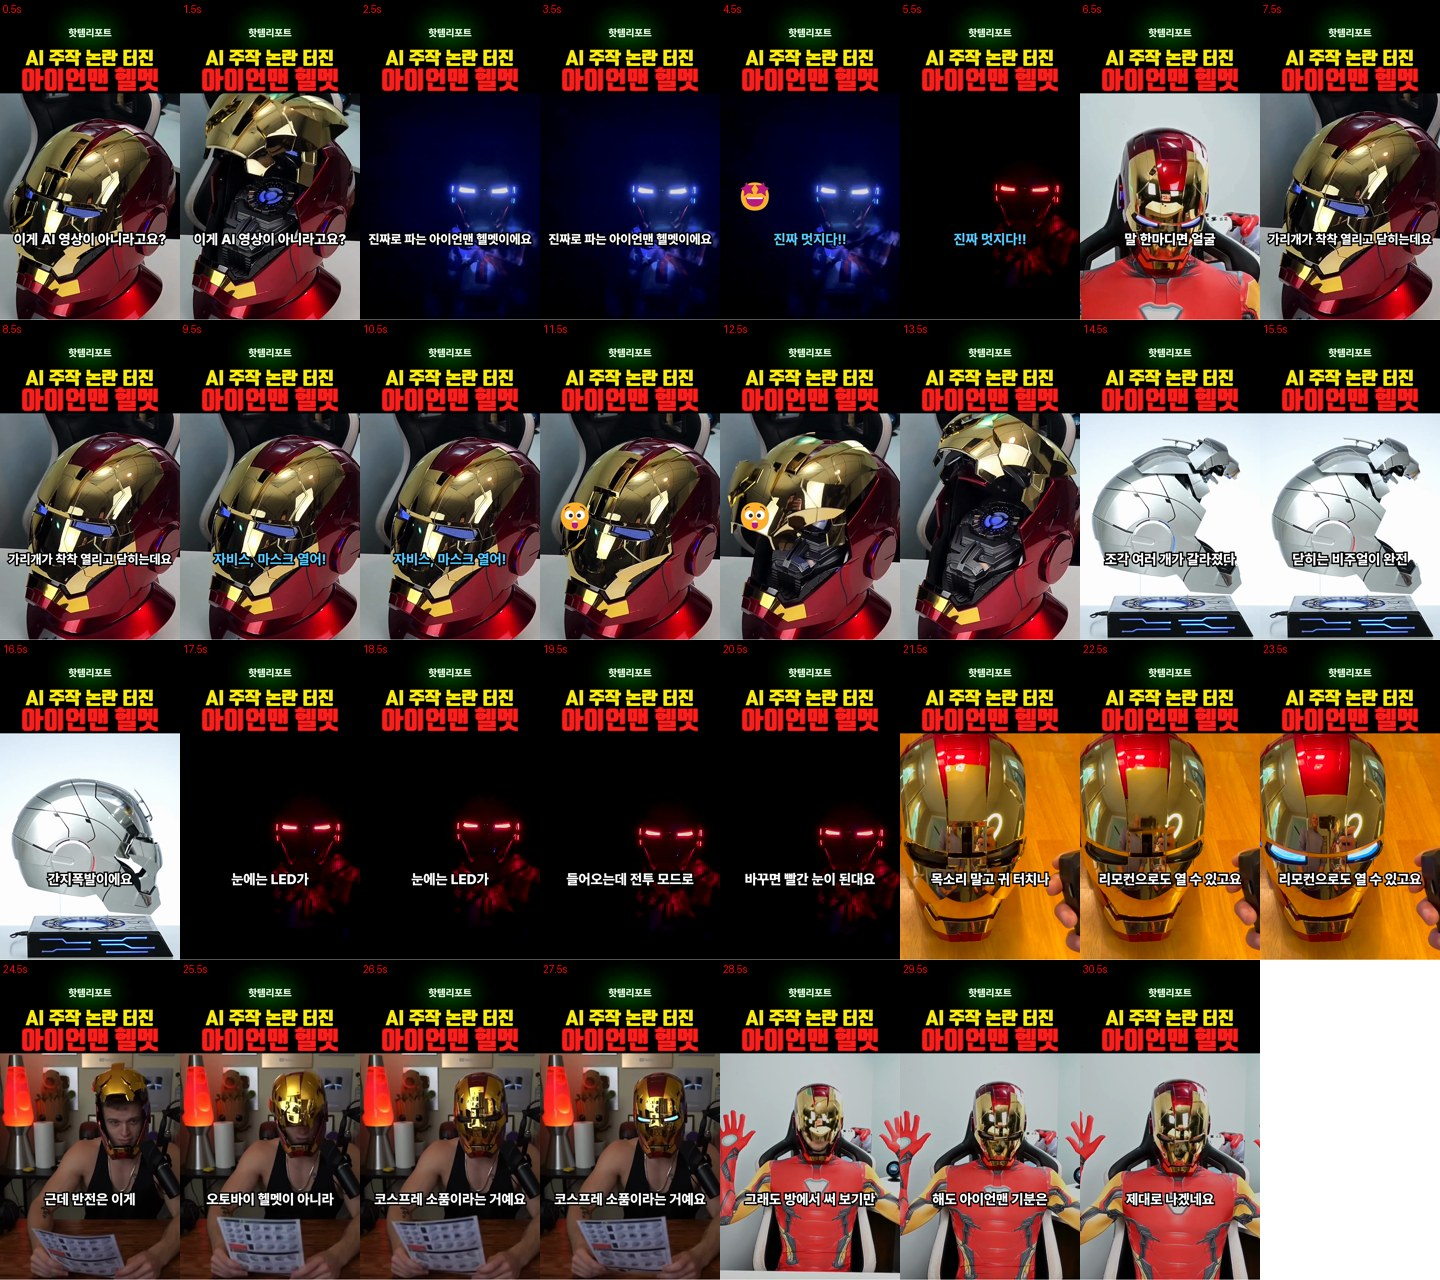
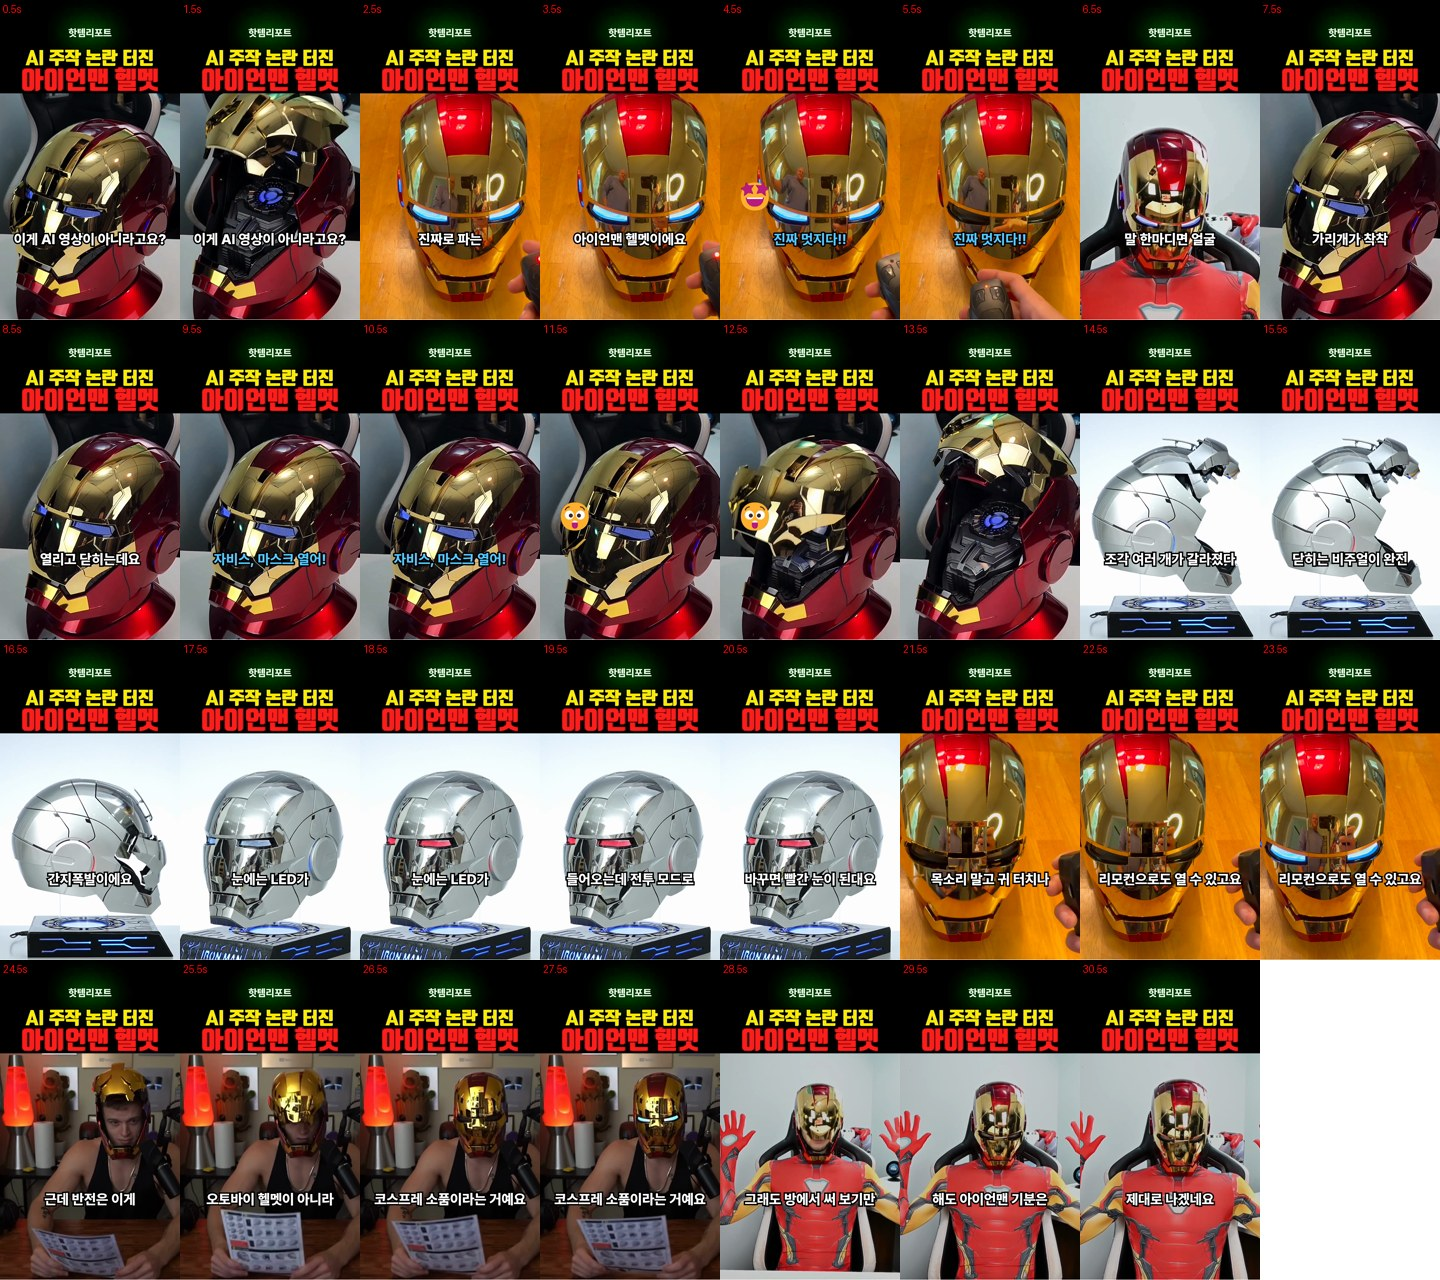
핫템리포트 OE11 2판 재렌더(TTS 재사용): 어두운 LED 화면 2컷 → 밝은 배경(8ys8 책상 43초 파란 눈·nqy 흰 배경 31초 파→빨 눈, 원음 리액션은 audio_src/audio_ss 로 유지)·자막 조각 ≤10자(쉼표로 경계)·원음 −16.4/−17.3 LUFS (관제 097)
Claude-Session: https://claude.ai/code/session_01BTrZqzTa3Berb8VK4gs4B4

diff --git a/tools/calcopy/hottem_audio.py b/tools/calcopy/hottem_audio.py
@@ -100,9 +100,11 @@ def cut_plan_from(timeline: dict, M: dict) -> tuple[list, dict, list]:
         sh = M["shots"][k]
         nfr = int(round(b * 30)) - int(round(a * 30))
         vid = f"s{k}"
-        paths[vid] = str(base / sh["src"])
+        # audio_src/audio_ss = 화면과 다른 소스의 소리(10-16: 어두운 LED 화면을 밝은 화면으로 바꾸되 원음 리액션은 그대로 두려고)
+        paths[vid] = str(base / (sh.get("audio_src") or sh["src"]))
         mute = sh.get("kind") == "짤" or sh.get("mute")
-        clips.append({"video_id": vid if not mute else "__mute__", "start": float(sh.get("ss", 0)), "c_src": (b - a), "play_out": (b - a), "cfr": nfr})
+        start = float(sh["audio_ss"]) if sh.get("audio_ss") is not None else float(sh.get("ss", 0))
+        clips.append({"video_id": vid if not mute else "__mute__", "start": start, "c_src": (b - a), "play_out": (b - a), "cfr": nfr})
         tot += nfr
     return [{"idx": 0, "clips": clips}], paths, [(0, tot)]
 

diff --git a/channel/hottemreport/칼카피_OE11/대조/차이표.md b/channel/hottemreport/칼카피_OE11/대조/차이표.md
@@ -1,7 +1,7 @@
 # 칼카피 대조 차이표
 
 - 원본: `C:/숏템_칼카피/hottemreport/mp4/OE-11wb7vdY.mp4` (34.033초)
-- 우리: `C:\숏템_칼카피\hottemreport\칼카피_OE11\make\final.mp4` (31.767초)
+- 우리: `C:\숏템_칼카피\hottemreport\칼카피_OE11\make\final.mp4` (31.8초)
 - 자: bench_one.measure(layout_mode=`single`) — 두 영상에 같은 함수
 - 규칙 자료(뜯기.json): 원본 `None` · 우리 `None`
 - **판정(① 픽셀 수준만): 미달** (기준 27개 중 안 17개)
@@ -17,37 +17,37 @@
 | 틀 | 배경 RGB | [0, 0, 0] | [0, 1, 0] | 1 | 배경 RGB 채널 최대차 ≤ 8 | 안 | `layout.measure_video` |
 | 틀 | 자막 자리 | inside | inside | 같음 | 자막 자리(위/아래/안) 같음 | 안 | `layout._caption` |
 | 틀 | 자막 잉크 극성 | bright | bright | 같음 | 자막 잉크 극성 같음 | 안 | `layout._caption` |
-| 틀 | 자막 띠 [y0,y1) | [1378, 1483] | [1392, 1473] | 14 | 자막 띠 y0,y1 차 ≤ 4px (틀 좌표 기준 §6-1) | **밖** | `layout._caption` |
+| 틀 | 자막 띠 [y0,y1) | [1378, 1483] | [1394, 1473] | 16 | 자막 띠 y0,y1 차 ≤ 4px (틀 좌표 기준 §6-1) | **밖** | `layout._caption` |
 | 틀 | 창 위 고정 띠 [[y0,y1)…] | [[132, 258], [297, 396], [408, 548]] | [[123, 268], [298, 396], [400, 550]] | 다름 | 참고(설계에 기준 수치 없음) | 참고 | `layout.measure_video(above_bands)` |
 | 틀 | 띠 색 | - | - | - | 참고(설계에 기준 수치 없음) | 참고(failed:원본: bench에 띠 색을 재는 자가 없음(layout은 창 밖 배경 RGB만 잰다) / 우리: bench에 띠 색을 재는 자가 없음(layout은 창 밖 배경 RGB만 잰다)) | `-` |
 | 틀 | 창 위 고정 글자 띠 개수 | 3 | 3 | 같음 | 창 위 고정 글자 띠 개수 같음 | 안 | `bands.measure_video` |
 | 틀 | 제목 블록 아래 끝~창 위 끝(px) | 165 | 165 | 0 | 제목 블록 아래 끝~창 위 끝 간격 차 ≤ 8px | 안 | `layout.window − bands.ink_bottom` |
 | 틀 | 창 위 띠1 [132,258) 글자 높이(px) | 54 | 55 | 1.0 (1.9%) | 띠 글자 높이 차 ≤ 6% | 안 | `bands.band_style(captions.glyph_style)` |
 | 틀 | 창 위 띠1 [132,258) 획 두께(px) | 5 | 7 | 2 | 띠 획 두께 차 ≤ 1px | **밖** | `bands.band_style(captions.glyph_style)` |
-| 틀 | 창 위 띠1 [132,258) 잉크 비율 | 0.01374 | 0.02063 | 0.007 (50.1%) | 띠 잉크 비율 차 ≤ 20% | **밖** | `bands.band_style(layout.ink_mask)` |
+| 틀 | 창 위 띠1 [132,258) 잉크 비율 | 0.01374 | 0.02062 | 0.007 (50.1%) | 띠 잉크 비율 차 ≤ 20% | **밖** | `bands.band_style(layout.ink_mask)` |
 | 틀 | 창 위 띠2 [297,396) 글자 높이(px) | 99 | 98 | -1.0 (1.0%) | 띠 글자 높이 차 ≤ 6% | 안 | `bands.band_style(captions.glyph_style)` |
 | 틀 | 창 위 띠2 [297,396) 획 두께(px) | 6 | 17 | 11 | 띠 획 두께 차 ≤ 1px | **밖** | `bands.band_style(captions.glyph_style)` |
-| 틀 | 창 위 띠2 [297,396) 잉크 비율 | 0.04791 | 0.05158 | 0.004 (7.7%) | 띠 잉크 비율 차 ≤ 20% | 안 | `bands.band_style(layout.ink_mask)` |
+| 틀 | 창 위 띠2 [297,396) 잉크 비율 | 0.04791 | 0.05169 | 0.004 (7.9%) | 띠 잉크 비율 차 ≤ 20% | 안 | `bands.band_style(layout.ink_mask)` |
 | 틀 | 창 위 띠3 [408,548) 글자 높이(px) | - | - | - | 띠 글자 높이 차 ≤ 6% | failed:원본: glyph_style 이 이 띠에서 글자를 못 찾음 / 우리: glyph_style 이 이 띠에서 글자를 못 찾음 | `bands.band_style(captions.glyph_style)` |
 | 틀 | 창 위 띠3 [408,548) 획 두께(px) | - | - | - | 띠 획 두께 차 ≤ 1px | failed:원본: glyph_style 이 이 띠에서 글자를 못 찾음 / 우리: glyph_style 이 이 띠에서 글자를 못 찾음 | `bands.band_style(captions.glyph_style)` |
 | 틀 | 창 위 띠3 [408,548) 잉크 비율 | 0 | 0 | 0.0 (0.0%) | 띠 잉크 비율 차 ≤ 20% | 안 | `bands.band_style(layout.ink_mask)` |
 | 자막 | 첫 줄 y 중앙(px) | 1392 | 1397 | 5.0px (0.3% of H1920) | 첫 줄 y 중앙 차 ≤ 화면 높이의 6% | 안 | `captions.caption_lines` |
 | 자막 | 줄 수 중앙 | 1 | 1 | 같음 | 줄 수(중앙) 같음 | 안 | `captions.caption_lines` |
-| 자막 | 줄 폭 중앙(px) | 698 | 686 | -12.0 (1.7%) | 줄 폭 중앙 차 ≤ 6% | 안 | `captions.caption_lines` |
+| 자막 | 줄 폭 중앙(px) | 698 | 721 | 23.0 (3.3%) | 줄 폭 중앙 차 ≤ 6% | 안 | `captions.caption_lines` |
 | 자막 | 첫 줄 높이 중앙(px) | 74 | 76 | 2.0 (2.7%) | 첫 줄 높이 중앙 차 ≤ 6% | 안 | `captions.glyph_style` |
 | 자막 | 획 두께 중앙(px) | 10 | 10 | 0 | 획 두께 중앙 차 ≤ 1px | 안 | `captions.glyph_style` |
 | 자막 | 외곽선 있음(다수) | 없음 | 없음 | 같음 | 외곽선 유무(다수) 같음 — bench는 굵기 px를 안 재고 유무만 잰다 | 안 | `captions.glyph_style` |
 | 자막 | 그림자 있음(다수) | 없음 | 없음 | 같음 | 참고(설계에 기준 수치 없음) | 참고 | `captions.glyph_style` |
 | 자막 | 등장효과(최빈) | 확대/축소 | 없음 | 다름 | 등장효과 종류(최빈) 같음 | **밖** | `captions.caption_anim` |
 | 자막 | 자막당 초 중앙 | 0.8 | 1.1 | 0.3 (37.5%) | 자막당 초 중앙 차 ≤ 15% | **밖** | `captions.caption_track(흔들림 구간 제외)` |
-| 자막 | 자막 개수 | 28 | 22 | -6 | 참고(설계에 기준 수치 없음) | 참고 | `captions.caption_track(흔들림 구간 제외)` |
-| 컷 | 컷 길이 중앙(초) | 2.667 | 3.933 | 1.266 (47.5%) | 컷 길이 중앙 차 ≤ 15% | **밖** | `cuts.shot_lengths` |
+| 자막 | 자막 개수 | 28 | 21 | -7 | 참고(설계에 기준 수치 없음) | 참고 | `captions.caption_track(흔들림 구간 제외)` |
+| 컷 | 컷 길이 중앙(초) | 2.667 | 3.934 | 1.267 (47.5%) | 컷 길이 중앙 차 ≤ 15% | **밖** | `cuts.shot_lengths` |
 | 컷 | 컷 길이 p90(초) | 7.267 | 4.833 | -2.434 (33.5%) | 컷 길이 p90 차 ≤ 15% | **밖** | `cuts.shot_lengths` |
 | 컷 | 첫 컷 시각(초) | 3.2 | 1.767 | -1.433 | 참고(설계에 기준 수치 없음) | 참고 | `cuts.shot_lengths` |
-| 컷 | 자막=컷 일치율(%) | 90 | 100 | 10 | 참고(설계에 기준 수치 없음) | 참고 | `cuts.cut_eq_sub` |
+| 컷 | 자막=컷 일치율(%) | 90 | 87.5 | -2.5 | 참고(설계에 기준 수치 없음) | 참고 | `cuts.cut_eq_sub` |
 | 컷 | 샷 수 | 11 | 9 | -2 | 참고(설계에 기준 수치 없음) | 참고 | `cuts.scene_detect+merge_close+cut_verify` |
 | 소리 | True Peak(dBTP) | -1.7 | -0.9 | 0.8 | 참고(설계에 기준 수치 없음) | 참고 | `audio.ebur128` |
-| 길이 | 길이(초, 프레임÷fps) | 34.033 | 31.767 | -2.266 (6.7%) | 길이 차 ≤ 15% | 안 | `probe.info` |
+| 길이 | 길이(초, 프레임÷fps) | 34.033 | 31.8 | -2.233 (6.6%) | 길이 차 ≤ 15% | 안 | `probe.info` |
 
 ## ② 규칙 수준 (같은 파일인지가 아니라 규칙만 — 판정 제외, 표에만)
 
